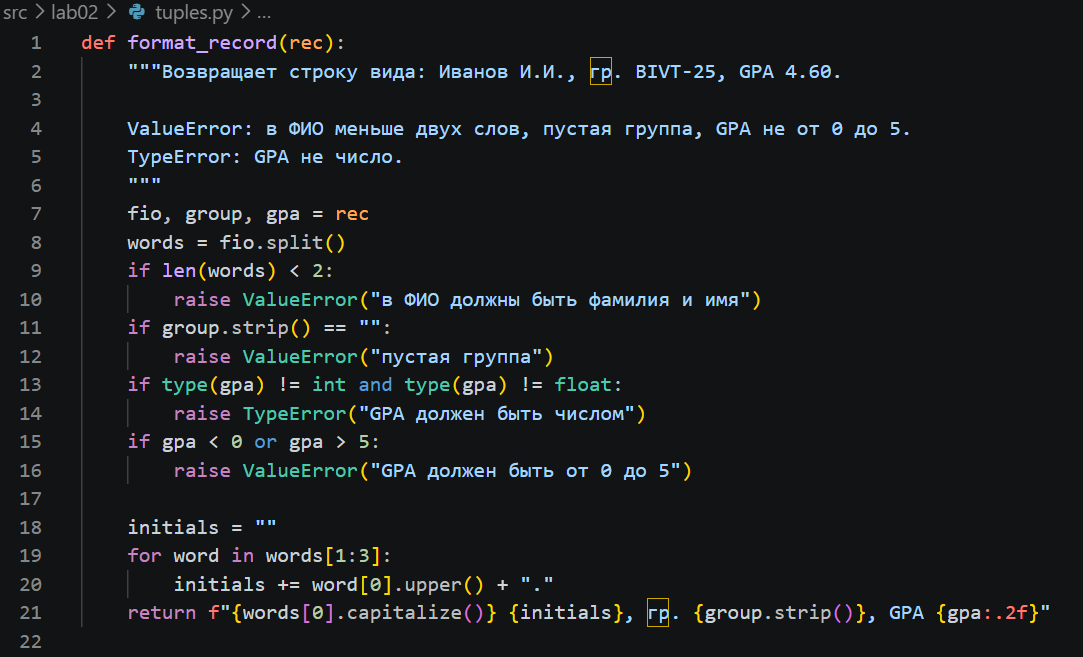
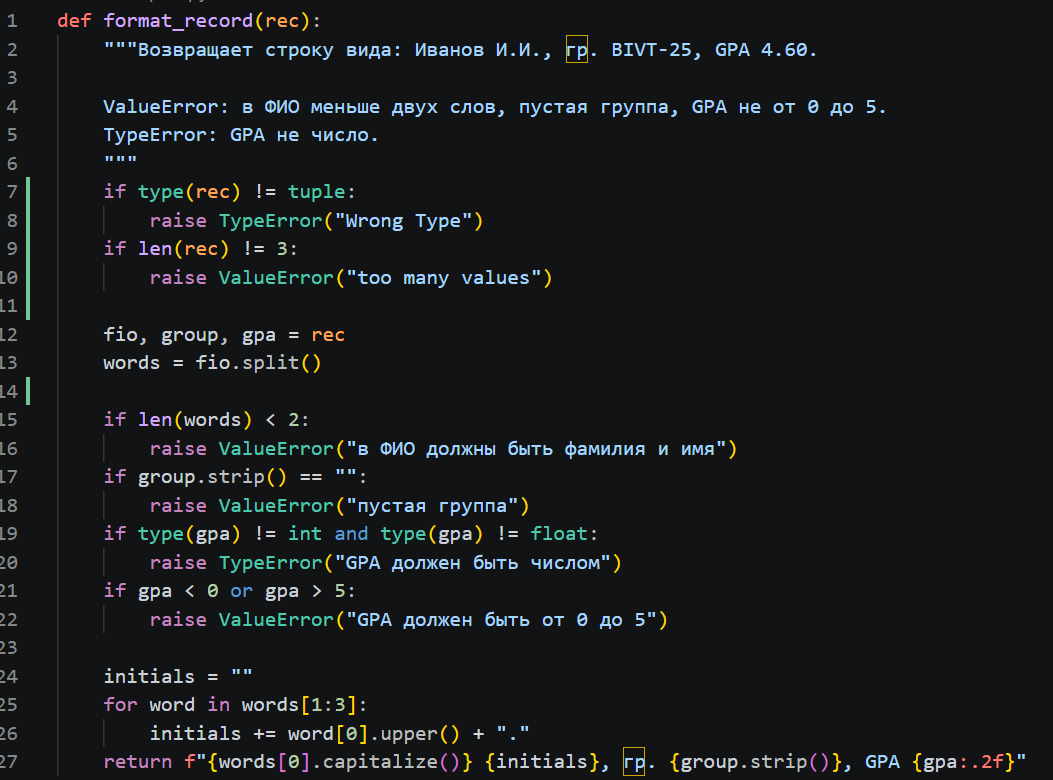
lab03

Changed region(s): [[0.0, 0.0, 0.9725, 1.0], [0.0, 0.0913, 0.0608, 1.0]]

diff --git a/src/lib/text.py b/src/lib/text.py
@@ -1,0 +1,55 @@
+import re
+
+
+def normalize(text: str, *, casefold: bool = True, yo2e: bool = True) -> str:
+    """Приводит текст к нижнему регистру, меняет ё на е, убирает лишние пробелы."""
+    if type(text) != str:
+        raise TypeError("нужна строка")
+    if casefold:
+        text = text.casefold()
+    else:
+        text = text.lower()
+    if yo2e:
+        text = text.replace("ё", "е").replace("Ё", "Е")
+    return " ".join(text.split())
+
+
+def tokenize(text: str) -> list[str]:
+    """Делит текст на слова: буквы, цифры, _ и дефис внутри слова."""
+    return re.findall(r"\w+(?:-\w+)*", text)
+
+
+def count_freq(tokens: list[str]) -> dict[str, int]:
+    """Считает, сколько раз встречается каждое слово."""
+    freq = {}
+    for token in tokens:
+        freq[token] = freq.get(token, 0) + 1
+    return freq
+
+
+def top_n(freq: dict[str, int], n: int = 5) -> list[tuple[str, int]]:
+    """Возвращает n самых частых слов. При равенстве частот идут по алфавиту."""
+    if n < 0:
+        raise ValueError("n не может быть отрицательным")
+    items = sorted(freq.items(), key=lambda pair: (-pair[1], pair[0]))
+    return items[:n]
+
+
+if __name__ == "__main__":
+    for s in ["ПрИвЕт\nМИр\t", "ёжик, Ёлка", "Hello\r\nWorld", "  двойные   пробелы  "]:
+        print(repr(s), "->", repr(normalize(s)))
+    print(repr("ёжик Ёлка"), "yo2e=False ->", repr(normalize("ёжик Ёлка", yo2e=False)))
+    print(repr("Straße"), "casefold=False ->", repr(normalize("Straße", casefold=False)))
+    print(repr("Straße"), "casefold=True ->", repr(normalize("Straße")))
+
+    print()
+
+    for s in ["привет мир", "hello,world!!!", "по-настоящему круто", "2025 год", "emoji 😀 не слово"]:
+        print(repr(s), "->", tokenize(s))
+
+    print()
+
+    freq = count_freq(["a", "b", "a", "c", "b", "a"])
+    print(freq, "->", top_n(freq, 2))
+    freq = count_freq(["bb", "aa", "bb", "aa", "cc"])
+    print(freq, "->", top_n(freq, 2))

diff --git a/src/lab02/tuples.py b/src/lab02/tuples.py
@@ -4,8 +4,14 @@ def format_record(rec):
     ValueError: в ФИО меньше двух слов, пустая группа, GPA не от 0 до 5.
     TypeError: GPA не число.
     """
+    if type(rec) != tuple:
+        raise TypeError("Wrong Type")
+    if len(rec) != 3:
+        raise ValueError("too many values")
+    
     fio, group, gpa = rec
     words = fio.split()
+
     if len(words) < 2:
         raise ValueError("в ФИО должны быть фамилия и имя")
     if group.strip() == "":
@@ -35,6 +41,8 @@ bad = [
     ("Иванов Иван", "", 4.6),
     ("Иванов Иван", "BIVT-25", "5"),
     ("Иванов Иван", "BIVT-25", 5.5),
+    ["Иванов Иван", "BIVT-25", 4.6],
+    ("Иванов Иван", "BIVT-25", 5.5, "123")
 ]
 for rec in bad:
     try:

diff --git a/src/lab03/text_stats.py b/src/lab03/text_stats.py
@@ -1,0 +1,29 @@
+import os
+import sys
+
+sys.path.insert(0, os.path.join(os.path.dirname(__file__), ".."))
+from lib.text import normalize, tokenize, count_freq, top_n
+
+text = sys.stdin.read()
+tokens = tokenize(normalize(text))
+freq = count_freq(tokens)
+top = top_n(freq, 5)
+
+print(f"Всего слов: {len(tokens)}")
+print(f"Уникальных слов: {len(freq)}")
+print("Топ-5:")
+
+TABLE = True
+
+if TABLE:
+    width = len("слово")
+    for word, count in top:
+        if len(word) > width:
+            width = len(word)
+    print("слово".ljust(width) + " | частота")
+    print("-" * (width + 10))
+    for word, count in top:
+        print(word.ljust(width) + " | " + str(count))
+else:
+    for word, count in top:
+        print(f"{word}:{count}")

diff --git a/src/lab03/readme.md b/src/lab03/readme.md
@@ -1,0 +1,27 @@
+## ЛР3 — Тексты и частоты слов
+
+### **Задание A — src/lib/text.py**
+
+Программа:
+
+![alt text](../../images/lab03/img01.png)
+
+Запуск:
+
+![alt text](../../images/lab03/img02.png)
+
+### **Задание B — src/lab03/text_stats.py**
+
+Скрипт читает весь ввод из stdin до конца (EOF).
+
+Программа:
+
+![alt text](../../images/lab03/img03.png)
+
+Запуск:
+
+![alt text](../../images/lab03/img04.png)
+
+### **Дополнительно — табличный вывод**
+
+![alt text](../../images/lab03/img05.png)
